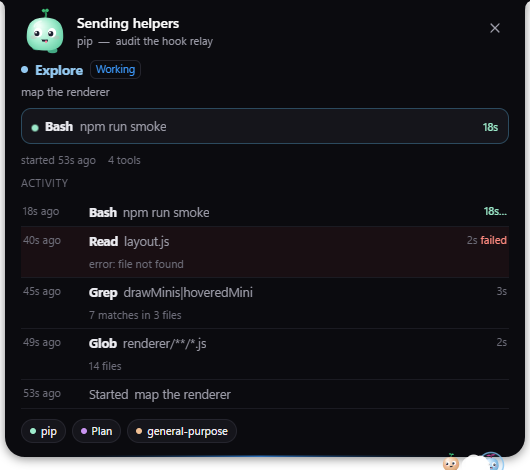
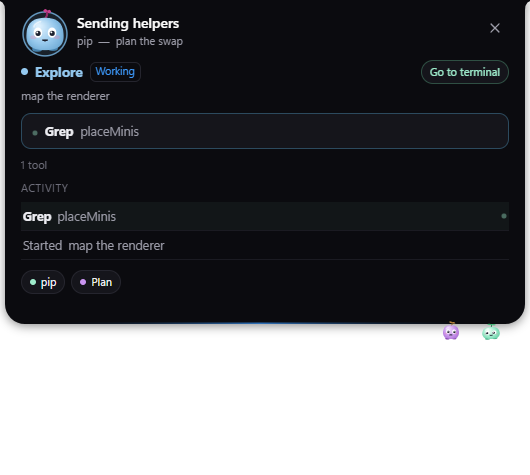
Put the helper you are reading about on stage
Clicking a sproutling opened a panel about it while Pip carried on being the
big creature in the notch, which is the wrong way round: the one you are
looking at should be the one you are reading about.

The inspected helper now takes Pip's slot at Pip's size, and Pip steps aside
into the parked line with the others. One spring on Pip (aside) and one shared
pair of positions (stageSlot, parkSlot) drive both halves, so they always move
as one swap rather than two animations that happen to agree. The helper keeps
its own wobble and colour on stage: standing in for Pip should not mean
pretending to be Pip.

Hit testing now scales with the creature, or the one on stage is unclickable
around its edges and you cannot swap back.

diff --git a/renderer/src/engine/layout.js b/renderer/src/engine/layout.js
@@ -14,6 +14,7 @@ import { host, ui } from "./bridge.js";
 import { AGENT_TOOLS, agents, lead, mood, MOODS, sessions } from "./model.js";
 import { pip, isOver as isOverPip } from "./pip.js";
 import { current as currentWorry } from "./watchdog.js";
+import { focusedKey } from "./inspector.js";
 import * as minis from "./minis.js";
 import { mouse } from "./pointer.js";
 
@@ -144,10 +145,14 @@ export function step(dt) {
     ? { x: L.x + L.w.v - 80, y: 13, w: 68, h: 22, pid: lead.pid }
     : null;
 
+  // Inspecting a helper puts that helper on stage and steps Pip aside: the one
+  // you are reading about should be the one you are looking at.
+  const featured = panel && panel.name === "inspect" && agents.has(focusedKey()) ? focusedKey() : "";
+
   publishShape(expanded);
   publishHitRects();
-  placePip();
-  placeMinis(live, expanded);
+  placePip(dt, featured);
+  placeMinis(live, expanded, featured);
 }
 
 /** Tell React where the notch will settle, so its panels can sit inside it. */
@@ -185,28 +190,53 @@ function publishHitRects() {
   host.setHitRects(rects);
 }
 
-function placePip() {
+/** Where the big creature stands: whoever is currently the subject. */
+function stageSlot() {
   const ex = clamp(L.ex.v, 0, 1.2);
-  pip.x = L.x + lerp(30, 40, ex);
-  pip.y = lerp(26, 34, ex) + pip.jump + pip.drop.v;
-  pip.s = lerp(1, 1.3, ex);
+  return { x: L.x + lerp(30, 40, ex), y: lerp(26, 34, ex), s: lerp(1, 1.3, ex) };
 }
 
-function placeMinis(live, expanded) {
+/** The small slot on a panel's bottom edge, where the others wait. */
+function parkSlot(i = 0) {
+  return { x: L.x + L.w.v - 34 - Math.min(i, 9) * 20, y: L.h.v + 9, s: 0.55 };
+}
+
+function placePip(dt, featured) {
+  pip.aside.t = featured ? 1 : 0;
+  const k = clamp(pip.aside.step(dt), 0, 1);
+  const stage = stageSlot(), park = parkSlot(0);
+  pip.x = lerp(stage.x, park.x, k);
+  pip.y = lerp(stage.y, park.y, k) + pip.jump + pip.drop.v;
+  pip.s = lerp(stage.s, park.s, k);
+}
+
+function placeMinis(live, expanded, featured) {
   const start = L.x + 58 + texts.textW + 16;
   const area = {
     x0: L.x + PLAY_SIDE, x1: L.x + L.w.v - PLAY_SIDE,
     y0: L.h.v + PLAY_TOP, y1: L.h.v + PLAY_TOP + PLAY_DEPTH,
   };
+  const stage = stageSlot();
   live.forEach((m, i) => {
     const v = minis.viewOf(m);
+    if (m.key === featured) {
+      // On stage, at Pip's size. It keeps its own wobble: a helper standing in
+      // for Pip should still read as itself.
+      minis.settle(m);
+      v.x.t = stage.x;
+      v.y.t = stage.y;
+      v.sc.t = stage.s;
+      return;
+    }
     if (panel) {
       // A panel fills the notch: the sproutlings line up on its bottom edge,
       // still visible and still clickable.
+      // Pip is parked in the first slot while a helper is on stage.
+      const slot = parkSlot(featured ? i + 1 : i);
       minis.settle(m);
-      v.x.t = L.x + L.w.v - 34 - Math.min(i, 9) * 20;
-      v.y.t = L.h.v + 9;
-      v.sc.t = v.gone || i > 9 ? 0 : 0.55;
+      v.x.t = slot.x;
+      v.y.t = slot.y;
+      v.sc.t = v.gone || i > 9 ? 0 : slot.s;
       return;
     }
     const rowIdx = rows.findIndex((r) => r.kind === "agent" && r.it === m);

diff --git a/scripts/smoke.js b/scripts/smoke.js
@@ -15,6 +15,7 @@ import { viewOf } from "../renderer/src/engine/minis.js";
 import { L } from "../renderer/src/engine/layout.js";
 import * as watchdog from "../renderer/src/engine/watchdog.js";
 import { review } from "../renderer/src/engine/layout.js";
+import { pip } from "../renderer/src/engine/pip.js";
 
 // -- virtual clock, so 10 minutes of Pip take 20 ms ---------------------------
 
@@ -197,6 +198,21 @@ check("clicking a sproutling asks for the inspector", seen.inspect.length === 1 
 
 engine.setPanel("inspect", { w: 520, h: 420 });
 advance(600);
+
+// The helper being read about takes the stage, and Pip steps aside for it.
+advance(1500);
+const star = viewOf(explore);
+check("the inspected helper takes centre stage", star.sc.t > 1, `scale ${star.sc.t}`);
+check("and stands where Pip stands", Math.abs(star.x.t - (L.x + 40)) < 6, `x ${Math.round(star.x.t)} vs ${Math.round(L.x + 40)}`);
+check("Pip steps aside and shrinks", pip.s < 0.8 && pip.x > L.x + L.w.v - 80, `s ${pip.s.toFixed(2)} x ${Math.round(pip.x)}`);
+
+// Closing the panel gives Pip the stage back.
+engine.setPanel(null);
+advance(2000);
+check("closing it puts Pip back on stage", pip.s > 0.9 && Math.abs(pip.x - (L.x + 30)) < 14, `s ${pip.s.toFixed(2)}`);
+engine.setPanel("inspect", { w: 520, h: 420 });
+engine.focusInspect({ kind: "agent", key: explore.key });
+advance(1200);
 
 let snap = engine.inspectSnapshot();
 check("the snapshot is the agent we clicked", snap && snap.key === explore.key);

diff --git a/renderer/src/engine/minis.js b/renderer/src/engine/minis.js
@@ -277,11 +277,14 @@ function drawFocusRing(x, y, sc, hue, t) {
 // -- queries ------------------------------------------------------------------
 
 /** The sproutling under a point, if any. */
-export function at(x, y, r = HIT_R) {
+export function at(x, y, r = 0) {
   let hit = null;
   for (const m of agents.values()) {
     const v = viewOf(m);
-    if (v.sc.v > 0.1 && Math.hypot(x - v.x.v, y - v.y.v) < r) hit = m;
+    if (v.sc.v <= 0.1) continue;
+    // Scales with the creature: the one on stage is Pip-sized.
+    const reach = r || Math.max(HIT_R, 13 * v.sc.v + 5);
+    if (Math.hypot(x - v.x.v, y - v.y.v) < reach) hit = m;
   }
   return hit;
 }

diff --git a/renderer/src/engine/pip.js b/renderer/src/engine/pip.js
@@ -22,6 +22,8 @@ export const pip = {
   sx: new Spring(1, 260, 12), sy: new Spring(1, 260, 12),
   lookX: new Spring(0, 90, 14), lookY: new Spring(0, 90, 14),
   open: new Spring(1, 500, 30), blush: new Spring(0.35, 60, 12),
+  // 0 = centre stage, 1 = stepped aside so an inspected helper can take it
+  aside: new Spring(0, 150, 18),
   drop: new Spring(0, 90, 9),
   jump: 0, jumpV: 0,
   leafAngle: 0, leafSpin: 0, droop: new Spring(0, 40, 10),

diff --git a/CLAUDE.md b/CLAUDE.md
@@ -184,10 +184,16 @@ animates towards it:
 
 | when | where |
 | --- | --- |
+| it is the one being inspected | **on stage**: Pip's slot, at Pip's size, while Pip steps aside into the parked line (`pip.aside`, a spring from 0 to 1) |
 | a panel is open | parked in a line on the panel's bottom edge |
 | the notch is open | one per row, standing by its own line |
 | 2+ helpers, notch closed | **the playground**: `minis.roam` picks a spot under the notch every 1.4–3.8 s, on looser springs (k 52 vs 110), with the odd hop; they look where they are walking |
 | otherwise | in a row inside the pill, beside the text |
+
+`stageSlot()` and `parkSlot(i)` in `layout.js` are the two positions involved,
+and both Pip and the featured helper interpolate between them, so the swap is one
+idea rather than two. `minis.at()` scales its hit radius with the creature, or the
+one on stage would be unclickable at the edges.
 
 The playground latches on at two helpers and only lets go when the last one
 finishes (`PLAY_FROM`, and the `playing` flag in `layout.js`), so one of them

diff --git a/README.md b/README.md
@@ -17,7 +17,11 @@ a list, and clicking any of them says exactly what it is doing.
 
 | | |
 | --- | --- |
-| ![The notch, open, listing the session and its subagents](docs/notch-open.png) | ![The inspector panel on one subagent](docs/inspector.png) |
+| ![The notch, open, listing the session and its subagents](docs/notch-open.png) | ![The inspector panel on one subagent, which has taken Pip's place in the notch](docs/inspector.png) |
+
+Whichever helper you're reading about takes the stage: it swaps into the notch at
+Pip's size while Pip steps aside and waits with the others, so the creature you
+are looking at is always the one the panel is talking about.
 
 ![The activity panel on a session waiting for approval](docs/needs-you.png)
 
